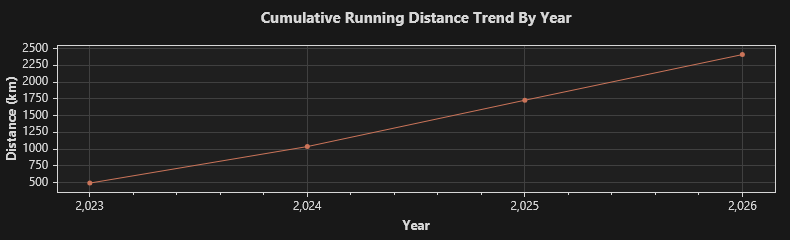
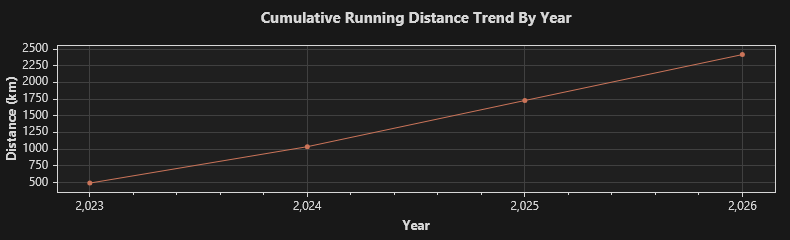
2026/11/25 跑步 6.02 公里

diff --git a/trend.md b/trend.md
@@ -1,4 +1,4 @@
-### Total: 408 days, 2411.0100000000002182787284255 km.
+### Total: 409 days, 2417.0300000000002000888343900 km.
 
 
 ![Monthly](https://github.com/prime167/MyRunningLog/blob/main/data/CumulativeTrendByMonth.png)
